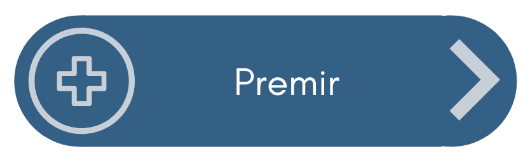
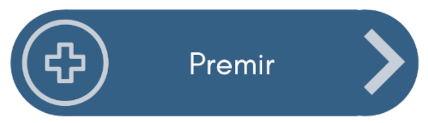
Add files via upload

diff --git a/totem/util/funcs.py b/totem/util/funcs.py
@@ -30,7 +30,7 @@ class func():
         self.aviso2.configure(font= tkFont.Font(family="Arial", size=25))
         self.aviso2.place(anchor='center', relx= 0.5, rely= 0.8)
 
-        self.aviso3 = Label(self.frame_horario, text=data, background= cores[0])
+        self.aviso3 = Label(self.frame_horario, text= hora_atual, background= cores[0])
         self.aviso3.configure(font= tkFont.Font(family="Arial", size=25))
         self.aviso3.place(anchor='center', relx= 0.5, rely= 0.86)
 
@@ -111,31 +111,6 @@ class func():
         elif tela == 8:
             self.root22.destroy() #Destruir janela 2
             
-    ###Função para conectar ao servidor###
-    def gerar_senha(self):
-        global senha, opc, atendimento, senhal
-        with connect_server() as conexao: #chama a função para conectar ao banco mysql
-            with conexao.cursor() as cursor:
-                #caso exista uma sequencia para a opção selecionada na consulta, gera uma senha sequencial.
-                if  cursor.execute(f'SELECT senha FROM {tabela} WHERE id IN (SELECT MAX(id) FROM {tabela} WHERE opcao = "{opc}" AND atendimento = "{atendimento}");')>0: #realiza consulta em banco
-                    resultado = str(cursor.fetchone()['senha']) #retorna resultado da consulta
-                    if atendimento == "preferencial": #Preferencial
-                        resultado = int(resultado[4:])+1 #converte o resutado, fatiando apenas os valores
-                    else: # Convencional
-                        resultado = int(resultado[3:])+1 #converte o resutado, fatiando apenas os valores
-
-                    resultado = str(resultado).rjust(3,'0') # adiciona 3 digitos ao resultado
-                    senha = senha + str(resultado) #seta senha
-                    sql = f"INSERT INTO {tabela} (opcao, atendimento, senha, data, status) VALUES ('{opc}','{atendimento}','{senha}','{data}', 'ESPERA')"  #seta intrução sql
-                
-                else: #caso não exista uma sequencia para a opção selecionada na consulta, gera uma nova senha no bloco else. 
-                    senha = senha + str('001') #seta senha
-                    sql = f"INSERT INTO {tabela} (opcao, atendimento, senha, data, status) VALUES ('{opc}','{atendimento}','{senha}','{data}', 'ESPERA')"  #seta intrução sql
-
-                cursor.execute(sql) #executa instrução sql
-                conexao.commit() #commit para o interprertador entender que deve executar a instrução
-                imprimir(senha, opc)
-                print(senha)
     ###Função Escolha Preferencial ou Convencional PREMIR Multiprofissionais###
     def abrir_janela_Mult(self): 
         self.rootMult = tk.Toplevel() #Variavel para atribuir tela principal
@@ -156,15 +131,15 @@ class func():
 
         self.bt_conv_mult = PhotoImage(file= bt[8]) #Chamando imagem 
         self.figura_bt_conv_mult = Button(self.frameMult, image=self.bt_conv_mult, relief=FLAT, bd = 0, command=self.fechar_conv) #Adicionando a imagem a um botão
-        self.figura_bt_conv_mult.place(relx= 0.31, rely=0.4, relwidth= 0.387, relheight= 0.18) #Localizando o botão na tela
+        self.figura_bt_conv_mult.place(anchor = "center", relx= 0.5, rely=0.55, relwidth= 0.518, relheight= 0.2) #Localizando o botão na tela
 
         self.bt_prefe_mult = PhotoImage(file= bt[10]) #Chamando imagem 
         self.figura_bt_prefe_mult = Button(self.frameMult, image=self.bt_prefe_mult, relief=FLAT, bd = 0, command=self.fechar_prefe)
-        self.figura_bt_prefe_mult.place(relx= 0.31, rely=0.6, relwidth= 0.39, relheight= 0.2) #Localizando o botão na tela
+        self.figura_bt_prefe_mult.place(anchor = "center", relx= 0.5, rely=0.8, relwidth= 0.518, relheight= 0.2) #Localizando o botão na tela
 
         self.bt_voltar_mult = PhotoImage(file = bt[12]) #Chamando imagem 
         self.figura_bt_voltar_mult = Button(self.frameMult, image = self.bt_voltar_mult, relief=FLAT, bd = 0, command=self.rootMult.destroy) #Adicionando a imagem a um botão
-        self.figura_bt_voltar_mult.place(anchor='center', relx= 0.13, rely=0.08, relwidth= 0.17, relheight= 0.08) #Localizando o botão na tela
+        self.figura_bt_voltar_mult.place(anchor='center', relx= 0.13, rely=0.08, relwidth= 0.17, relheight= 0.06) #Localizando o botão na tela
     ###Função Escolha Preferencial ou Convencional PREMIR Consultas###
     def abrir_janela_Consultas(self): 
         self.rootConsultas = tk.Toplevel() #Variavel para atribuir tela principal
@@ -185,15 +160,15 @@ class func():
 
         self.bt_conv_cons = PhotoImage(file= bt[8]) #Chamando imagem 
         self.figura_bt_conv_cons = Button(self.frameConsultas, image=self.bt_conv_cons, relief=FLAT, bd = 0, command= self.fechar_conv) #Adicionando a imagem a um botão
-        self.figura_bt_conv_cons.place(relx= 0.31, rely=0.4, relwidth= 0.387, relheight= 0.18) #Localizando o botão na tela
+        self.figura_bt_conv_cons.place(anchor = "center", relx= 0.5, rely=0.55, relwidth= 0.518, relheight= 0.2) #Localizando o botão na tela
 
         self.bt_prefe_cons = PhotoImage(file= bt[10]) #Chamando imagem 
         self.figura_bt_prefe_cons = Button(self.frameConsultas, image=self.bt_prefe_cons, relief=FLAT, bd = 0, command= self.fechar_prefe)
-        self.figura_bt_prefe_cons.place(relx= 0.31, rely=0.6, relwidth= 0.39, relheight= 0.2) #Localizando o botão na tela
+        self.figura_bt_prefe_cons.place(anchor = "center", relx= 0.5, rely=0.8, relwidth= 0.518, relheight= 0.2) #Localizando o botão na tela
 
         self.bt_voltar_cons = PhotoImage(file = bt[12]) #Chamando imagem 
         self.figura_bt_voltar_cons = Button(self.frameConsultas, image = self.bt_voltar_cons, relief=FLAT, bd = 0, command= self.rootConsultas.destroy) #Adicionando a imagem a um botão
-        self.figura_bt_voltar_cons.place(anchor='center', relx= 0.13, rely=0.08, relwidth= 0.17, relheight= 0.08) #Localizando o botão na tela
+        self.figura_bt_voltar_cons.place(anchor='center', relx= 0.13, rely=0.08, relwidth= 0.17, relheight= 0.06) #Localizando o botão na tela
     ###Função Escolha Preferencial ou Convencional PREMIR Ultrassom###
     def abrir_janela_Ultrassom(self): 
         self.rootUltrassom = tk.Toplevel() #Variavel para atribuir tela principal
@@ -214,15 +189,15 @@ class func():
 
         self.bt_conv_ultr = PhotoImage(file= bt[8]) #Chamando imagem 
         self.figura_conv_ultr = Button(self.frameUltrassom, image=self.bt_conv_ultr, relief=FLAT, bd = 0, command= self.fechar_conv) #Adicionando a imagem a um botão
-        self.figura_conv_ultr.place(relx= 0.31, rely=0.4, relwidth= 0.387, relheight= 0.18) #Localizando o botão na tela
+        self.figura_conv_ultr.place(anchor = "center", relx= 0.5, rely=0.55, relwidth= 0.518, relheight= 0.2) #Localizando o botão na tela
 
         self.bt_prefe_ultr = PhotoImage(file= bt[10]) #Chamando imagem 
         self.figura_prefe_ultr = Button(self.frameUltrassom, image=self.bt_prefe_ultr, relief=FLAT, bd = 0, command= self.fechar_prefe)
-        self.figura_prefe_ultr.place(relx= 0.31, rely=0.6, relwidth= 0.39, relheight= 0.2) #Localizando o botão na tela
+        self.figura_prefe_ultr.place(anchor = "center", relx= 0.5, rely=0.8, relwidth= 0.518, relheight= 0.2) #Localizando o botão na tela
 
         self.bt_voltar_ultr = PhotoImage(file = bt[12]) #Chamando imagem 
         self.figura_voltar_ultr = Button(self.frameUltrassom, image = self.bt_voltar_ultr, relief=FLAT, bd = 0, command= self.rootUltrassom.destroy) #Adicionando a imagem a um botão
-        self.figura_voltar_ultr.place(anchor='center', relx= 0.13, rely=0.08, relwidth= 0.17, relheight= 0.08) #Localizando o botão na tela
+        self.figura_voltar_ultr.place(anchor='center', relx= 0.13, rely=0.08, relwidth= 0.17, relheight= 0.06) #Localizando o botão na tela
     ###Função Escolha Preferencial ou Convencional FARMACIA BASICA###
     def abrir_janela_AtencaoBasica(self): 
         self.root_AB = tk.Toplevel() #Variavel para atribuir tela principal
@@ -243,15 +218,15 @@ class func():
 
         self.btconv_imgAB = PhotoImage(file= bt[8]) #Imagem Botão Convencional
         self.btconv_AB = Button(self.frame_AB, image=self.btconv_imgAB, relief=FLAT, bd = 0, command= self.fechar_conv) #Adicionando a imagem a um botão
-        self.btconv_AB.place(relx= 0.31, rely=0.4, relwidth= 0.387, relheight= 0.18) #Localizando o botão na tela
+        self.btconv_AB.place(anchor = "center", relx= 0.5, rely=0.55, relwidth= 0.518, relheight= 0.2) #Localizando o botão na tela
 
         self.btprefe_imgAB = PhotoImage(file= bt[10]) #Imagem Botão Preferencial
         self.btprefe_AB = Button(self.frame_AB, image=self.btprefe_imgAB, relief=FLAT, bd = 0, command= self.fechar_prefe) #Adicionando a imagem a um botão
-        self.btprefe_AB.place(relx= 0.31, rely=0.6, relwidth= 0.39, relheight= 0.2) #Localizando o botão na tela
+        self.btprefe_AB.place(anchor = "center", relx= 0.5, rely=0.8, relwidth= 0.518, relheight= 0.2) #Localizando o botão na tela
 
         self.btvoltar_imgAB = PhotoImage(file = bt[12]) #Imagem Botão Voltar 
         self.btvoltar_AB = Button(self.frame_AB, image = self.btvoltar_imgAB, relief=FLAT, bd = 0, command= self.root_AB.destroy) #Adicionando a imagem a um botão
-        self.btvoltar_AB.place(anchor='center', relx= 0.13, rely=0.08, relwidth= 0.17, relheight= 0.08) #Localizando o botão na tela
+        self.btvoltar_AB.place(anchor='center', relx= 0.13, rely=0.08, relwidth= 0.17, relheight= 0.06) #Localizando o botão na tela
     ###Função Escolha Preferencial ou Convencional FARMACIA ESTADO###
     def abrir_janela_Estado(self): 
         self.root_FE = tk.Toplevel() #Variavel para atribuir tela principal
@@ -272,15 +247,15 @@ class func():
 
         self.photo2200 = PhotoImage(file= bt[8]) #Imagem Botão Convencional
         self.btconv = Button(self.frame_FE, image=self.photo2200, relief=FLAT, bd = 0, command= self.fechar_conv) #Adicionando a imagem a um botão
-        self.btconv.place(relx= 0.31, rely=0.4, relwidth= 0.387, relheight= 0.18) #Localizando o botão na tela
+        self.btconv.place(anchor = "center", relx= 0.5, rely=0.55, relwidth= 0.518, relheight= 0.2) #Localizando o botão na tela
 
         self.btprefe_imgFE = PhotoImage(file= bt[10]) #Imagem Botão Preferencial
         self.btprefe_FE = Button(self.frame_FE, image=self.btprefe_imgFE, relief=FLAT, bd = 0, command= self.fechar_prefe) #Adicionando a imagem a um botão
-        self.btprefe_FE.place(relx= 0.31, rely=0.6, relwidth= 0.39, relheight= 0.2) #Localizando o botão na tela
+        self.btprefe_FE.place(anchor = "center", relx= 0.5, rely=0.8, relwidth= 0.518, relheight= 0.2) #Localizando o botão na tela
 
         self.btvoltar_imgFE = PhotoImage(file = bt[12]) #Imagem Botão Voltar 
         self.btvoltar_FE = Button(self.frame_FE, image = self.btvoltar_imgFE, relief=FLAT, bd = 0, command= self.root_FE.destroy) #Adicionando a imagem a um botão
-        self.btvoltar_FE.place(anchor='center', relx= 0.13, rely=0.08, relwidth= 0.17, relheight= 0.08) #Localizando o botão na tela
+        self.btvoltar_FE.place(anchor='center', relx= 0.13, rely=0.08, relwidth= 0.17, relheight= 0.06) #Localizando o botão na tela
     ###Função Escolha Preferencial ou Convencional FARMACIA AUTO-CUSTO###
     def abrir_janela_AutoCusto(self): 
         self.root_FAC = tk.Toplevel() #Variavel para atribuir tela principal
@@ -301,19 +276,19 @@ class func():
 
         self.btconv_imgFAC = PhotoImage(file= bt[8]) #Imagem Botão Convencional
         self.btconv_FAC = Button(self.frame_FAC, image=self.btconv_imgFAC, relief=FLAT, bd = 0, command= self.fechar_conv) #Adicionando a imagem a um botão
-        self.btconv_FAC.place(relx= 0.31, rely=0.4, relwidth= 0.387, relheight= 0.18) #Localizando o botão na tela
+        self.btconv_FAC.place(anchor = "center", relx= 0.5, rely=0.55, relwidth= 0.518, relheight= 0.2) #Localizando o botão na tela
 
         self.btprefe_imgFAC = PhotoImage(file= bt[10]) #Imagem Botão Preferencial
         self.btprefe_FAC = Button(self.frame_FAC, image=self.btprefe_imgFAC, relief=FLAT, bd = 0, command= self.fechar_prefe) #Adicionando a imagem a um botão
-        self.btprefe_FAC.place(relx= 0.31, rely=0.6, relwidth= 0.39, relheight= 0.2) #Localizando o botão na tela
+        self.btprefe_FAC.place(anchor = "center", relx= 0.5, rely=0.8, relwidth= 0.518, relheight= 0.2) #Localizando o botão na tela
 
         self.btvoltar_imgFAC = PhotoImage(file = bt[12]) #Imagem Botão Voltar 
         self.btvoltar_FAC = Button(self.frame_FAC, image = self.btvoltar_imgFAC, relief=FLAT, bd = 0, command= self.root_FAC.destroy) #Adicionando a imagem a um botão
-        self.btvoltar_FAC.place(anchor='center', relx= 0.13, rely=0.08, relwidth= 0.17, relheight= 0.08) #Localizando o botão na tela    
+        self.btvoltar_FAC.place(anchor='center', relx= 0.13, rely=0.08, relwidth= 0.17, relheight= 0.06) #Localizando o botão na tela    
     
     ###Função Escolha Preferencial ou Convencional AUTORIZAÇÃO DE EXAMES###
     def abrir_janela_AE(self): 
-        if data >= "13:40":
+        if hora_atual >= "13:40":
             self.horario_ex()
         else:
             self.rootAE = tk.Toplevel() #Variavel para atribuir tela principal
@@ -330,22 +305,22 @@ class func():
             #Imagens na Tela 
             self.fundo_AE = PhotoImage(file= planos[1]) #Plano de fundo principal
             figura_fundo_AE = Label(self.frameAE, image= self.fundo_AE, bd= 0) #Chamando imagem 
-            figura_fundo_AE.place(relx=0.125, rely=0) #Localizando a imagem na tela
+            figura_fundo_AE.place(anchor = "center", relx=0.5, rely=0.5) #Localizando a imagem na tela
 
             self.btconv_imgAE = PhotoImage(file= bt[8]) #Imagem Botão Convencional
             self.btconv_AE = Button(self.frameAE, image=self.btconv_imgAE, relief=FLAT, bd = 0, command= self.fechar_conv) #Adicionando a imagem a um botão
-            self.btconv_AE.place(relx= 0.31, rely=0.4, relwidth= 0.387, relheight= 0.18) #Localizando o botão na tela
+            self.btconv_AE.place(anchor = "center", relx= 0.5, rely=0.55, relwidth= 0.518, relheight= 0.2) #Localizando o botão na tela
 
             self.btprefe_imgAE = PhotoImage(file= bt[10]) #Imagem Botão Preferencial
             self.btprefe_AE = Button(self.frameAE, image=self.btprefe_imgAE, relief=FLAT, bd = 0, command= self.fechar_prefe) #Adicionando a imagem a um botão
-            self.btprefe_AE.place(relx= 0.31, rely=0.6, relwidth= 0.39, relheight= 0.2) #Localizando o botão na tela
+            self.btprefe_AE.place(anchor = "center", relx= 0.5, rely=0.8, relwidth= 0.518, relheight= 0.2) #Localizando o botão na tela
 
             self.btvoltar_imgAE = PhotoImage(file = bt[12]) #Imagem Botão Voltar 
             self.btvoltar_AE = Button(self.frameAE, image = self.btvoltar_imgAE, relief=FLAT, bd = 0, command= self.rootAE.destroy) #Adicionando a imagem a um botão
-            self.btvoltar_AE.place(anchor='center', relx= 0.13, rely=0.08, relwidth= 0.17, relheight= 0.08) #Localizando o botão na tela   
+            self.btvoltar_AE.place(anchor='center', relx= 0.13, rely=0.08, relwidth= 0.17, relheight= 0.06) #Localizando o botão na tela   
     ###Função para Tela Premir###
     def abrir_janela_Premir(self):
-        if data >= "13:40":
+        if hora_atual >= "13:40":
             self.horario_ex()
         else:
             self.root_premir = tk.Toplevel()#Abertura da Tela 4 de Opções do Premir
@@ -363,52 +338,52 @@ class func():
             figura_fundo_premir.place(anchor= 'center',relx=0.5, rely=0.45) #Localizando a imagem na tela
 
             bloco_meio = Label(self.frame_premir, image= self.bloco, bd= 0) #Chamando imagem 
-            bloco_meio.place(relx=0.04, rely=0.334) #Localizando a imagem na tela
+            bloco_meio.place(anchor = "center", relx=0.17, rely=0.65) #Localizando a imagem na tela
 
             bloco_esquerda = Label(self.frame_premir, image= self.bloco, bd= 0) #Chamando imagem 
-            bloco_esquerda.place(relx=0.355, rely=0.334) #Localizando a imagem na tela
+            bloco_esquerda.place(anchor = "center", relx=0.5, rely=0.65) #Localizando a imagem na tela
 
             bloco_direita = Label(self.frame_premir, image= self.bloco, bd= 0) #Chamando imagem
-            bloco_direita.place(relx=0.67, rely=0.334) #Localizando a imagem na tela
+            bloco_direita.place(anchor = "center", relx=0.83, rely=0.65) #Localizando a imagem na tela
 
-            fontexemplo0 = tkFont.Font(family= 'Arial Black', size= 18) #Definindo Variavel para fonte padrão
+            fontexemplo0 = tkFont.Font(family= 'Arial Black', size= 15) #Definindo Variavel para fonte padrão
             fontexemplo33 = tkFont.Font(family= 'Arial Black', size= 10) #Definindo Variavel para fonte padrão
 
             self.bt_consultas = PhotoImage(file = bt[7]) #Imagem botão Consultas
             self.btPconsultas = Button(self.frame_premir, image= self.bt_consultas, relief=FLAT, bd= 0, command= self.abrir_janela_Consultas) #Adicionando a imagem a um botão
-            self.btPconsultas.place(relx= 0.395, rely=0.4, relwidth= 0.21, relheight= 0.1) #Localizando o botão na tela
+            self.btPconsultas.place(anchor='center',relx= 0.5, rely=0.47, relwidth= 0.27, relheight= 0.1) #Localizando o botão na tela
 
             self.bt_ultrassom = PhotoImage(file= bt[11]) #Imagem botão Ultrassom
             self.btult = Button(self.frame_premir, image= self.bt_ultrassom, relief=FLAT, bd= 0, command= self.abrir_janela_Ultrassom) #Adicionando a imagem a um botão
-            self.btult.place(relx= 0.713, rely=0.4, relwidth= 0.21, relheight= 0.1) #Localizando o botão na tela
+            self.btult.place(anchor='center',relx= 0.83, rely=0.47, relwidth= 0.27, relheight= 0.1) #Localizando o botão na tela
 
             self.bt_multi = PhotoImage(file = bt[9]) #Imagem botão Multiprofissionais
             self.btmult = Button(self.frame_premir, image= self.bt_multi, relief=FLAT, bd= 0, command= self.abrir_janela_Mult) #Adicionando a imagem a um botão
-            self.btmult.place(relx= 0.080, rely=0.4, relwidth= 0.21, relheight= 0.1) #Localizando o botão na tela
+            self.btmult.place(anchor='center', relx= 0.17, rely=0.47, relwidth= 0.27, relheight= 0.1) #Localizando o botão na tela
 
             self.bt_voltar = PhotoImage(file = bt[12]) #Imagem botão Voltar
             self.btvoltar = Button(self.frame_premir, image = self.bt_voltar, relief=FLAT, bd = 0, command= self.root_premir.destroy) #Adicionando a imagem a um botão
-            self.btvoltar.place(anchor='center', relx= 0.13, rely=0.08, relwidth= 0.17, relheight= 0.08) #Localizando o botão na tela
+            self.btvoltar.place(anchor='center', relx= 0.13, rely=0.08, relwidth= 0.17, relheight= 0.06) #Localizando o botão na tela
 
             self.btconsultas2 = Button(self.frame_premir, text = f"•{esp[0]} \n•{esp[1]} \n•{esp[2]} \n•{esp[3]} \n•{esp[4]} \n•{esp[5]} \n•{esp[6]} \n•{esp[7]}", relief = FLAT, bd = 0, background = cores[4], activebackground = cores[4], command= self.abrir_janela_Consultas) #Adicionando texto a um botão
             self.btconsultas2.configure(font = fontexemplo0) #Configuração fonte padrão
-            self.btconsultas2.place(relx= 0.398, rely=0.52, relwidth= 0.21, relheight= 0.4)  #Localizando o botão na tela
+            self.btconsultas2.place(anchor = "center", relx= 0.5, rely=0.7, relwidth= 0.23, relheight= 0.3)  #Localizando o botão na tela
             
             self.btult2 = Button(self.frame_premir, text = "•Agendamento \n•Resultado de \nExames", relief = FLAT, bd = 0, background = cores[4], activebackground = cores[4], command= self.abrir_janela_Ultrassom) #Adicionando texto a um botão
             self.btult2.configure(font = fontexemplo0) #Configuração fonte padrão
-            self.btult2.place(relx= 0.713, rely=0.5, relwidth= 0.21, relheight= 0.4)  #Localizando o botão na tela
+            self.btult2.place(anchor = "center", relx= 0.83, rely=0.7, relwidth= 0.27, relheight= 0.33)  #Localizando o botão na tela
             
             self.btmult2 = Button(self.frame_premir, text = "Multiprofissonais: \n\n•Psícologa \n•Terapia Ocupacional \n•Assistente Social \n •Fonoaudióloga", relief = FLAT, bd = 0, background = cores[4], activebackground = cores[4], command= self.abrir_janela_Mult) #Adicionando texto a um botão
             self.btmult2.configure(font = fontexemplo0) #Configuração fonte padrão
-            self.btmult2.place(relx= 0.06, rely=0.51, relwidth= 0.25, relheight= 0.3)  #Localizando o botão na tela
+            self.btmult2.place(anchor = "center", relx= 0.17, rely=0.67, relwidth= 0.27, relheight= 0.25)  #Localizando o botão na tela
 
             self.mult2 = Label(self.frame_premir, text= "*A senha Multiprofissionais atende \na todos os profissionais acima!", background= cores[4])
             self.mult2.configure(font = fontexemplo33)
-            self.mult2.place(relx= 0.08, rely=0.85, relwidth= 0.21, relheight= 0.07)  #Localizando o botão na tela
+            self.mult2.place(anchor = "center", relx= 0.17, rely=0.85, relwidth= 0.27, relheight= 0.1)  #Localizando o botão na tela
 
     ###Função para Tela Farmacias###
     def abrir_janela_Farmacias(self): 
-        if data >= "13:40":
+        if hora_atual >= "13:40":
             self.horario_ex()
         else:
             self.root_farmacia = tk.Toplevel()#Abertura da Tela 4 de Opções do Premir
@@ -426,43 +401,43 @@ class func():
             figura_fundo_farmacia.place(anchor= 'center',relx=0.5, rely=0.45) #Localizando a imagem na tela
 
             figura_bloco_esquerda = Label(self.frame_farmacia, image= self.bloco_farmacia, bd= 0) #Chamando imagem 
-            figura_bloco_esquerda.place(relx=0.04, rely=0.334) #Localizando a imagem na tela
+            figura_bloco_esquerda.place(anchor = "center", relx=0.17, rely=0.65) #Localizando a imagem na tela
 
             figura_meio = Label(self.frame_farmacia, image= self.bloco_farmacia, bd= 0) #Chamando imagem 
-            figura_meio.place(relx=0.355, rely=0.334) #Localizando a imagem na tela
+            figura_meio.place(anchor = "center", relx=0.5, rely=0.65) #Localizando a imagem na tela
 
             figura_direita = Label(self.frame_farmacia, image= self.bloco_farmacia, bd= 0) #Chamando imagem
-            figura_direita.place(relx=0.67, rely=0.334) #Localizando a imagem na tela
+            figura_direita.place(anchor = "center", relx=0.83, rely=0.65) #Localizando a imagem na tela
 
             fontexemplo0 = tkFont.Font(family= 'Arial Black', size= 18) #Definindo Variavel para fonte padrão
 
             self.bt_imgFAC= PhotoImage(file = bt[2]) #Imagem botão Farmacia Auto-custo
             self.btFAC = Button(self.frame_farmacia, image= self.bt_imgFAC, relief=FLAT, bd= 0, command= self.abrir_janela_AutoCusto) #Adicionando a imagem a um botão
-            self.btFAC.place(relx= 0.395, rely=0.4, relwidth= 0.21, relheight= 0.1) #Localizando o botão na tela
+            self.btFAC.place(anchor = "center", relx= 0.17, rely=0.47, relwidth= 0.273, relheight= 0.1) #Localizando o botão na tela
         
             self.bt_imgFAB = PhotoImage(file= bt[3]) #Imagem botão Farmacia Atenção Básica
             self.btFAB = Button(self.frame_farmacia, image= self.bt_imgFAB, relief=FLAT, bd= 0, command= self.abrir_janela_AtencaoBasica) #Adicionando a imagem a um botão
-            self.btFAB.place(relx= 0.08, rely=0.4, relwidth= 0.21, relheight= 0.1) #Localizando o botão na tela
+            self.btFAB.place(anchor = "center", relx= 0.5, rely=0.47, relwidth= 0.27, relheight= 0.1) #Localizando o botão na tela
 
             self.bt_imgFE = PhotoImage(file = bt[4]) #Imagem botão Farmacia Estado
             self.btFE = Button(self.frame_farmacia, image= self.bt_imgFE, relief=FLAT, bd= 0, command= self.abrir_janela_Estado) #Adicionando a imagem a um botão
-            self.btFE.place(relx= 0.713, rely=0.4, relwidth= 0.21, relheight= 0.1) #Localizando o botão na tela
+            self.btFE.place(anchor = "center", relx= 0.83, rely=0.47, relwidth= 0.27, relheight= 0.1) #Localizando o botão na tela
 
             self.bt_img_FAB = Button(self.frame_farmacia, text= 'CBAF \n\nMedicamentos \nfornecidos pelo \nMunicípio \n', relief = FLAT, bd = 0, background = cores[4], activebackground = cores[4], command= self.abrir_janela_AtencaoBasica)
-            self.bt_img_FAB.place(relx= 0.08, rely=0.5, relwidth= 0.21, relheight= 0.4) #Localizando o botão na tela
+            self.bt_img_FAB.place(anchor = "center", relx= 0.17, rely=0.73, relwidth= 0.27, relheight= 0.33) #Localizando o botão na tela
             self.bt_img_FAB.configure(font= fontexemplo0)
 
             self.bt_img_FE = Button(self.frame_farmacia, text= 'CEAF \n\nMedicamentos \nretirados apartir \ndo Estado ou \nJudicial', relief = FLAT, bd = 0, background = cores[4], activebackground = cores[4], command= self.abrir_janela_Estado)
-            self.bt_img_FE.place(relx= 0.713, rely=0.5, relwidth= 0.21, relheight= 0.4) #Localizando o botão na tela
+            self.bt_img_FE.place(anchor = "center", relx= 0.83, rely=0.73, relwidth= 0.27, relheight= 0.33) #Localizando o botão na tela
             self.bt_img_FE.configure(font= fontexemplo0)
 
             self.bt_img_FA = Button(self.frame_farmacia, text= 'Convenio Municípal \n\nFarmâcias Externas \nconveniadas ao \nMunicípio \n', relief = FLAT, bd = 0, background = cores[4], activebackground = cores[4], command= self.abrir_janela_AutoCusto)
-            self.bt_img_FA.place(relx= 0.395, rely=0.5, relwidth= 0.21, relheight= 0.4) #Localizando o botão na tela
+            self.bt_img_FA.place(anchor = "center", relx= 0.5, rely=0.73, relwidth= 0.27, relheight= 0.33) #Localizando o botão na tela
             self.bt_img_FA.configure(font= fontexemplo0)
             
             self.bt_img_voltar = PhotoImage(file = bt[12]) #Imagem botão Voltar 
             self.bt_voltar_farmacias = Button(self.frame_farmacia, image = self.bt_img_voltar, relief=FLAT, bd = 0, command= self.root_farmacia.destroy) #Adicionando a imagem a um botão
-            self.bt_voltar_farmacias.place(anchor='center', relx= 0.13, rely=0.08, relwidth= 0.17, relheight= 0.08) #Localizando o botão na tela
+            self.bt_voltar_farmacias.place(anchor='center', relx= 0.13, rely=0.08, relwidth= 0.17, relheight= 0.06) #Localizando o botão na tela
     ###Função para tela de espera de senha###
     def abrir_janela_espera(self):
         self.root_espera = tk.Toplevel()

diff --git a/totem/forms/form_master.py b/totem/forms/form_master.py
@@ -42,22 +42,21 @@ try:
             ###Imagens na Tela### 
             self.photo_plano_de_fundo = PhotoImage(file= planos[0]) #Plano de fundo principal
             plano_de_fundo = Label(self.frame, image= self.photo_plano_de_fundo, bd= 0) #Chamando imagem 
-            plano_de_fundo.place(anchor= 'center',relx=0.5, rely=0.5) #Localizando a imagem na tela      
+            plano_de_fundo.place(anchor= 'center',relx=0.5, rely=0.4) #Localizando a imagem na tela         
         
         def widgets(self):
             ###Botões###
             self.photo_BT_AUT_EXAMES = PhotoImage(file = bt[0]) #Imagem botão Autorização de Exames
             self.bt_Aut = Button(self.frame, image = self.photo_BT_AUT_EXAMES, bd = 0, relief=FLAT, command= self.abrir_janela_AE) #Adicionando a imagem a um botão
-            self.bt_Aut.place(anchor= 'center',relx= 0.25, rely=0.5, relwidth= 0.389, relheight= 0.19) #Localizando o botão na tela
+            self.bt_Aut.place(anchor= 'center',relx= 0.25, rely=0.5, relwidth= 0.435, relheight= 0.15) #Localizando o botão na tela
 
             self.photo_bt_PREMIR = PhotoImage(file = bt[5]) #Imagem botão PREMIR    
             self.bt_premir = Button(self.frame, image = self.photo_bt_PREMIR, bd = 0, relief=FLAT, command= self.abrir_janela_Premir) #Adicionando a imagem a um botão
-            self.bt_premir.place(anchor= 'center',relx= 0.75, rely=0.5, relwidth= 0.3965, relheight= 0.21) #Localizando o botão na tela
+            self.bt_premir.place(anchor= 'center',relx= 0.75, rely=0.5, relwidth= 0.435, relheight= 0.15) #Localizando o botão na tela
 
             self.photo_bt_FARMARCIA = PhotoImage(file = bt[1]) #Imagem botão Farmacia
             self.bt_F = Button(self.frame, image= self.photo_bt_FARMARCIA, relief=FLAT, bd= 0, command= self.abrir_janela_Farmacias) #Adicionando a imagem a um botão
-            self.bt_F.place(anchor= 'center',relx= 0.5, rely=0.8, relwidth= 0.395, relheight= 0.22) #Localizando o botão na tela
-
+            self.bt_F.place(anchor= 'center',relx= 0.5, rely=0.8, relwidth= 0.435, relheight= 0.15) #Localizando o botão na tela
 except:
     pass
 
